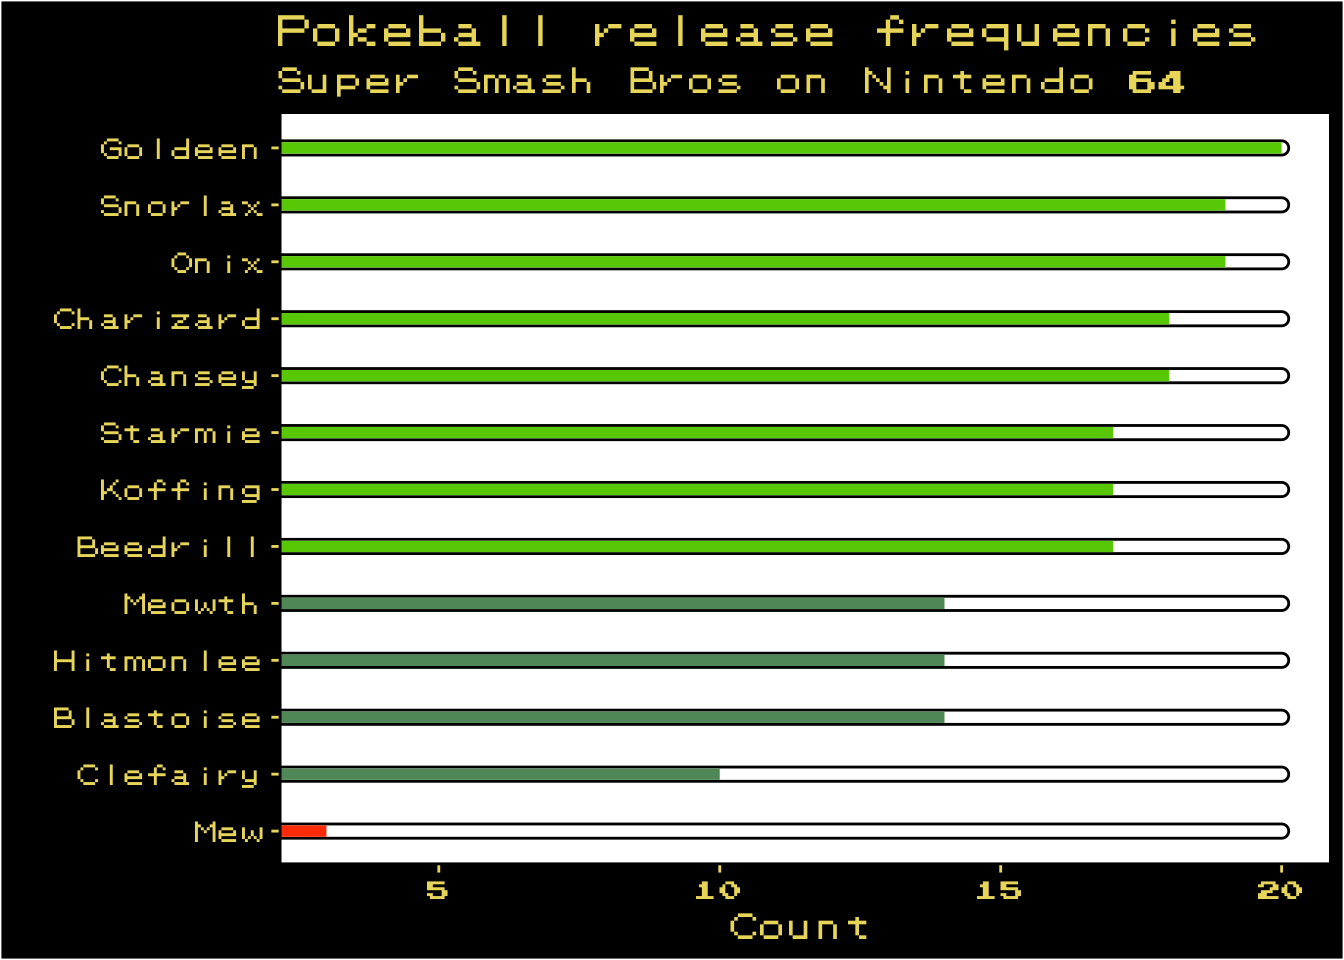
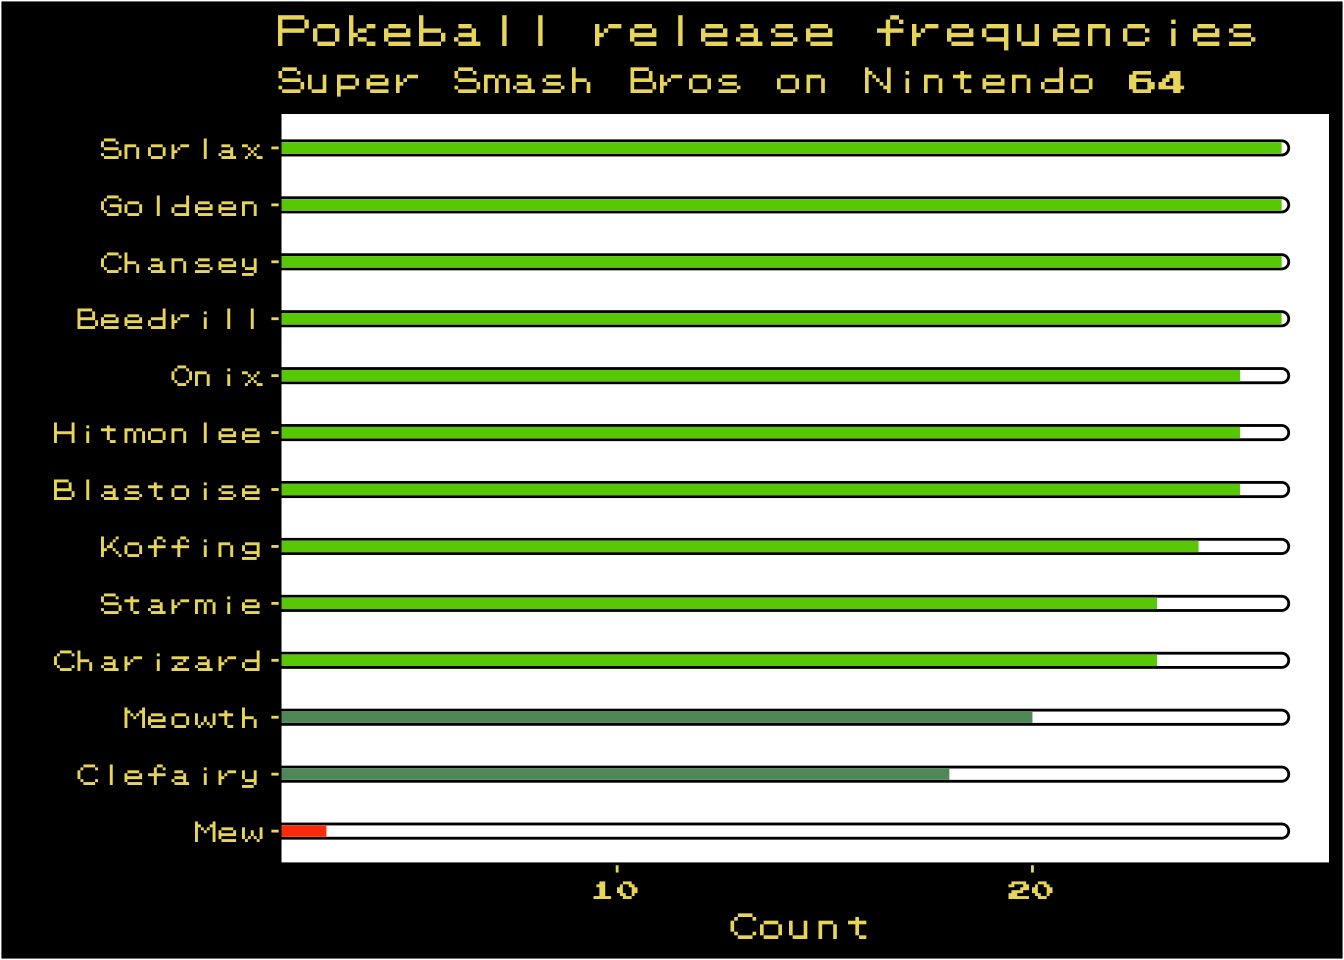
update data

diff --git a/content/post/2018-05-19-pokeballs-in-super-smash-bros.html b/content/post/2018-05-19-pokeballs-in-super-smash-bros.html
@@ -32,20 +32,24 @@ tags:
 <div id="data" class="section level1">
 <h1>Data</h1>
 <p>I’m a recovering ecologist, so data collection by observation is very important to me. I watched four computer-controlled players face-off in versus mode (it’s a weekend and I’m old enough to do whatever I want (after I’ve done my chores)). Pokeballs were the only items set to ‘on’ and frequency was set to ‘very high’. I saved the file as <a href="https://github.com/matt-dray/draytasets/blob/master/ssb_pokeballs.csv">a CSV on GitHub</a>.</p>
-<pre class="r"><code>library(dplyr)  # data manipulation
+<pre class="r"><code># load packages
+library(dplyr)  # data manipulation
 library(readr)  # reading files
 
+# read data from github 
 balls &lt;- readr::read_csv(
   &quot;https://raw.githubusercontent.com/matt-dray/draytasets/master/ssb_pokeballs.csv&quot;
 ) %&gt;% 
-  dplyr::mutate(pokemon = tools::toTitleCase(pokemon))
+  dplyr::mutate(pokemon = tools::toTitleCase(pokemon))  # start names with caps
 
-dplyr::pull(balls)[1:25]  # be careful when pulling balls</code></pre>
-<pre><code>##  [1] &quot;Onix&quot;      &quot;Starmie&quot;   &quot;Goldeen&quot;   &quot;Beedrill&quot;  &quot;Starmie&quot;  
-##  [6] &quot;Koffing&quot;   &quot;Hitmonlee&quot; &quot;Chansey&quot;   &quot;Beedrill&quot;  &quot;Meowth&quot;   
-## [11] &quot;Blastoise&quot; &quot;Hitmonlee&quot; &quot;Chansey&quot;   &quot;Charizard&quot; &quot;Starmie&quot;  
-## [16] &quot;Hitmonlee&quot; &quot;Onix&quot;      &quot;Blastoise&quot; &quot;Hitmonlee&quot; &quot;Onix&quot;     
-## [21] &quot;Koffing&quot;   &quot;Beedrill&quot;  &quot;Charizard&quot; &quot;Starmie&quot;   &quot;Snorlax&quot;</code></pre>
+# preview 25 random observations
+dplyr::sample_n(balls, 25) %&gt;%  # sample of 25
+  dplyr::pull()  # column to vector</code></pre>
+<pre><code>##  [1] &quot;Goldeen&quot;   &quot;Hitmonlee&quot; &quot;Onix&quot;      &quot;Starmie&quot;   &quot;Onix&quot;     
+##  [6] &quot;Beedrill&quot;  &quot;Beedrill&quot;  &quot;Koffing&quot;   &quot;Koffing&quot;   &quot;Beedrill&quot; 
+## [11] &quot;Chansey&quot;   &quot;Hitmonlee&quot; &quot;Meowth&quot;    &quot;Meowth&quot;    &quot;Snorlax&quot;  
+## [16] &quot;Onix&quot;      &quot;Starmie&quot;   &quot;Clefairy&quot;  &quot;Blastoise&quot; &quot;Hitmonlee&quot;
+## [21] &quot;Chansey&quot;   &quot;Beedrill&quot;  &quot;Koffing&quot;   &quot;Koffing&quot;   &quot;Beedrill&quot;</code></pre>
 </div>
 <div id="frequency" class="section level1">
 <h1>Frequency</h1>
@@ -55,7 +59,7 @@ dplyr::pull(balls)[1:25]  # be careful when pulling balls</code></pre>
 <pre class="r"><code>balls_summary &lt;- balls %&gt;%
   janitor::tabyl(pokemon) %&gt;% 
   dplyr::arrange(desc(n)) %&gt;% 
-  dplyr::mutate(percent = percent * 100) %&gt;% 
+  dplyr::mutate(percent = round(percent * 100, 1)) %&gt;% 
   dplyr::rename(Pokemon = pokemon, Count = n, Percent = percent)
   
 knitr::kable(balls_summary)</code></pre>
@@ -69,69 +73,69 @@ knitr::kable(balls_summary)</code></pre>
 </thead>
 <tbody>
 <tr class="odd">
-<td align="left">Goldeen</td>
-<td align="right">20</td>
-<td align="right">10.0</td>
-</tr>
-<tr class="even">
-<td align="left">Onix</td>
-<td align="right">19</td>
-<td align="right">9.5</td>
-</tr>
-<tr class="odd">
-<td align="left">Snorlax</td>
-<td align="right">19</td>
-<td align="right">9.5</td>
+<td align="left">Beedrill</td>
+<td align="right">26</td>
+<td align="right">9.0</td>
 </tr>
 <tr class="even">
 <td align="left">Chansey</td>
-<td align="right">18</td>
+<td align="right">26</td>
 <td align="right">9.0</td>
 </tr>
 <tr class="odd">
-<td align="left">Charizard</td>
-<td align="right">18</td>
+<td align="left">Goldeen</td>
+<td align="right">26</td>
 <td align="right">9.0</td>
 </tr>
 <tr class="even">
-<td align="left">Beedrill</td>
-<td align="right">17</td>
-<td align="right">8.5</td>
-</tr>
-<tr class="odd">
-<td align="left">Koffing</td>
-<td align="right">17</td>
-<td align="right">8.5</td>
-</tr>
-<tr class="even">
-<td align="left">Starmie</td>
-<td align="right">17</td>
-<td align="right">8.5</td>
+<td align="left">Snorlax</td>
+<td align="right">26</td>
+<td align="right">9.0</td>
 </tr>
 <tr class="odd">
 <td align="left">Blastoise</td>
-<td align="right">14</td>
-<td align="right">7.0</td>
+<td align="right">25</td>
+<td align="right">8.6</td>
 </tr>
 <tr class="even">
 <td align="left">Hitmonlee</td>
-<td align="right">14</td>
-<td align="right">7.0</td>
+<td align="right">25</td>
+<td align="right">8.6</td>
+</tr>
+<tr class="odd">
+<td align="left">Onix</td>
+<td align="right">25</td>
+<td align="right">8.6</td>
+</tr>
+<tr class="even">
+<td align="left">Koffing</td>
+<td align="right">24</td>
+<td align="right">8.3</td>
+</tr>
+<tr class="odd">
+<td align="left">Charizard</td>
+<td align="right">23</td>
+<td align="right">7.9</td>
+</tr>
+<tr class="even">
+<td align="left">Starmie</td>
+<td align="right">23</td>
+<td align="right">7.9</td>
 </tr>
 <tr class="odd">
 <td align="left">Meowth</td>
-<td align="right">14</td>
-<td align="right">7.0</td>
+<td align="right">20</td>
+<td align="right">6.9</td>
 </tr>
 <tr class="even">
 <td align="left">Clefairy</td>
-<td align="right">10</td>
-<td align="right">5.0</td>
+<td align="right">18</td>
+<td align="right">6.2</td>
 </tr>
 <tr class="odd">
 <td align="left">Mew</td>
 <td align="right">3</td>
-<td align="right">1.5</td>
+<td align="right">1.0</td>
 </tr>
 </tbody>
 </table>
@@ -156,12 +160,12 @@ balls %&gt;%
 </div>
 <div id="revelation" class="section level1">
 <h1>Revelation</h1>
-<p>So it looks like the ‘common’ Pokemon according to <a href="https://www.ssbwiki.com/Pok%C3%A9_Ball">the SSB wiki</a> are indeed more common, though Snorlax appears equal second on this list, despite being labelled as ‘uncommon’. Clefairy also appeared less than expected, given it was labelled as ‘common’.</p>
-<p>Mew appeared 3 times out of 200, which is once every 66.7 releases.</p>
-<p>Bear in mind that this is only based on a sample of 200 so far . I’ll keep collecting data to update this post.</p>
+<p>So it looks like the ‘common’ Pokemon according to <a href="https://www.ssbwiki.com/Pok%C3%A9_Ball">the SSB wiki</a> are indeed more common, though Snorlax appears equal first on this list, despite being labelled as ‘uncommon’. Clefairy also appeared less than expected, given it was labelled as ‘common’.</p>
+<p>Mew appeared 3 times out of 290, which is once every 96.7 releases; less than the once every 151 releases.</p>
+<p>Bear in mind that this is only based on a sample of 290 so far . I’ll keep collecting data to update this post.</p>
 </div>
 <div id="gratuitous-shot-of-my-coveted-pokemon-stadium-special-edition-n64-playing-ssb" class="section level1">
-<h1>Gratuitous shot of my coveted Pokemon Stadium special edition N64 playing SSB</h1>
+<h1>Gratuitous shot of my coveted Pokemon Stadium special-edition N64 playing SSB</h1>
 <p><img src="/post/2018-05-19-pokeballs-in-super-smash-bros_files/n64.JPG" alt="Special edition N64 playing Super Smash Bros" width="100%"></p>
 </div>
 <div id="r-session-information" class="section level1">
